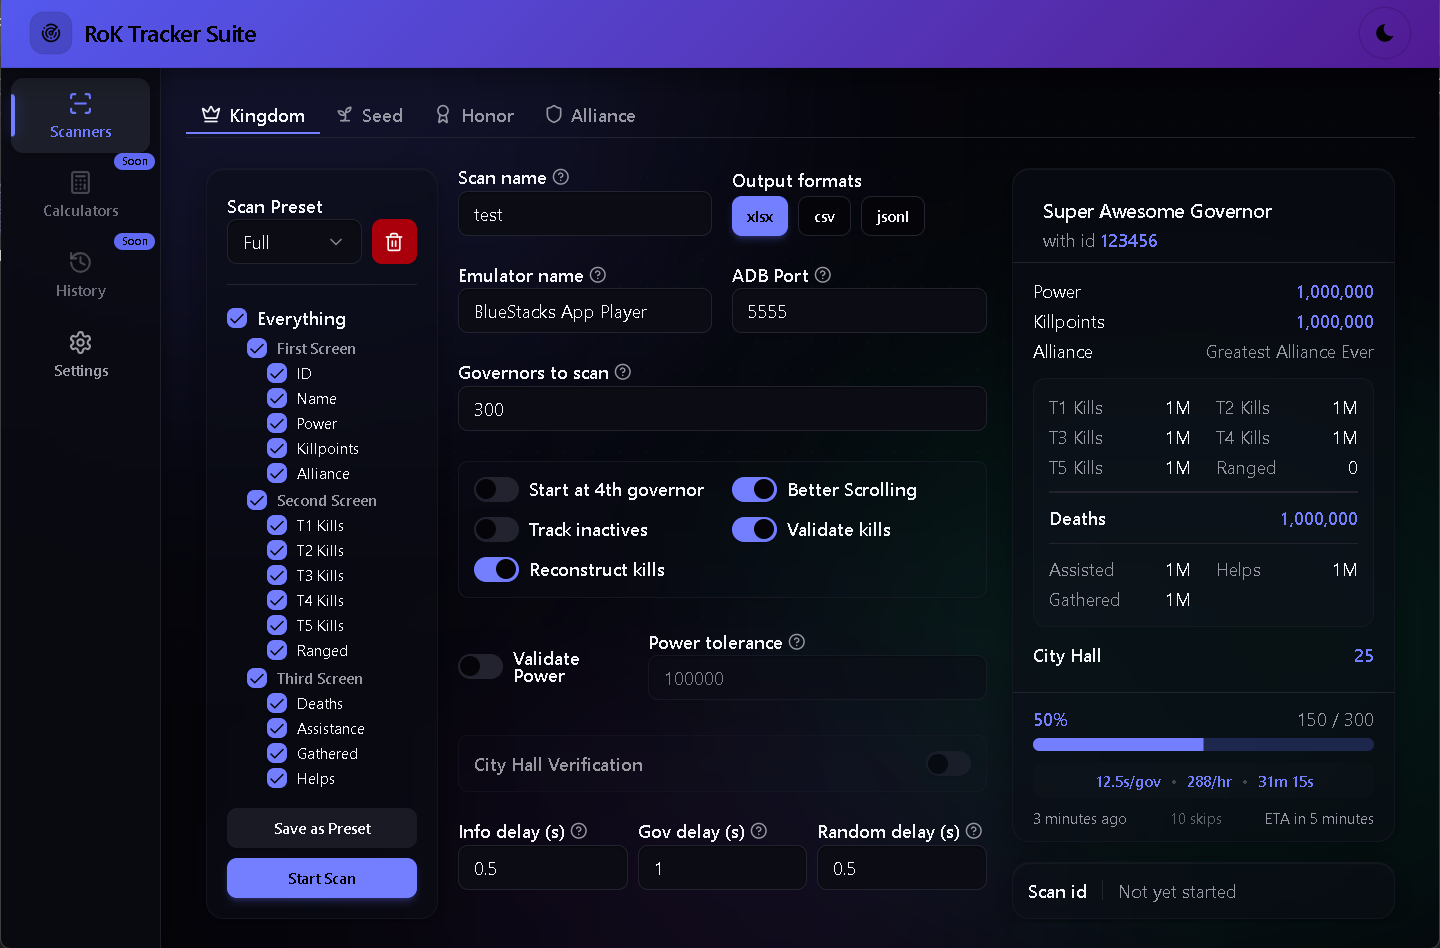
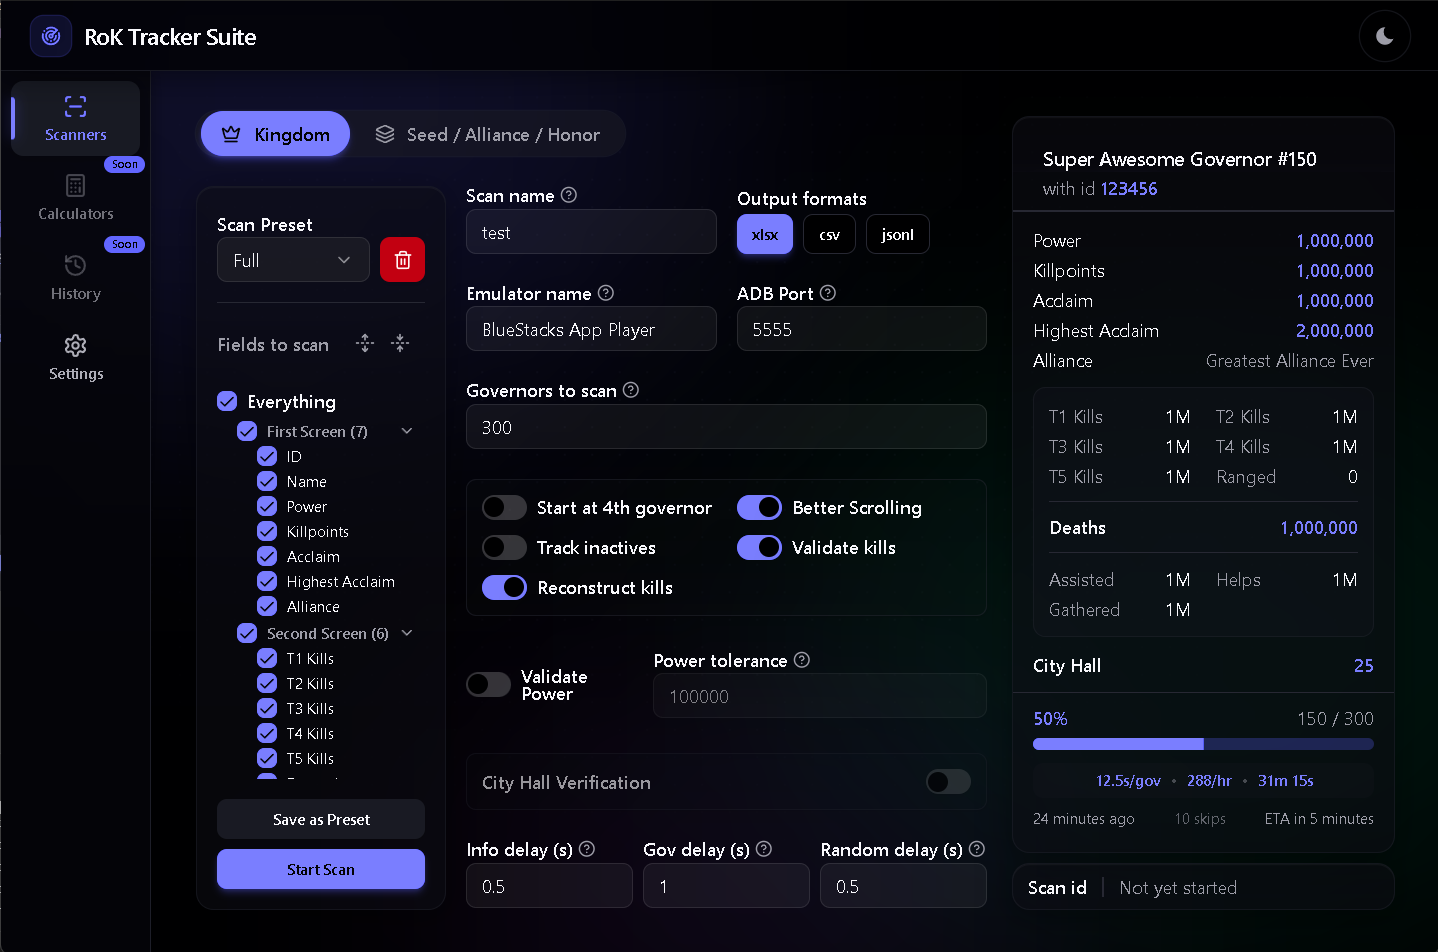
clipboard parsing and OCR support

diff --git a/roktracker/kingdom/scanner.py b/roktracker/kingdom/scanner.py
@@ -44,7 +44,7 @@ _user32.EmptyClipboard.argtypes = []
 _user32.EmptyClipboard.restype = wintypes.BOOL
 
 _kernel32.GlobalLock.argtypes = [wintypes.HANDLE]
-_kernel32.GlobalLock.restype = wintypes.c_void_p
+_kernel32.GlobalLock.restype = ctypes.c_void_p
 
 _kernel32.GlobalUnlock.argtypes = [wintypes.HANDLE]
 _kernel32.GlobalUnlock.restype = wintypes.BOOL

diff --git a/README.md b/README.md
@@ -24,6 +24,7 @@ Originally based on the tool by [nikolakis1919](https://github.com/nikolakis1919
 - [Configuration](#configuration)
 - [Emulator Setup](#emulator-setup)
   - [Bluestacks 5](#bluestacks-5)
+  - [Automatic Port Detection](#automatic-port-detection)
   - [LD Player, MEmu, and Nox](#ld-player-memu-and-nox)
 - [Output Formats](#output-formats)
 - [Important Notes](#important-notes)
@@ -43,13 +44,9 @@ The main scanner — configure presets, fine-tune timings, and track every gover
   <img src="images/kingdom.png" alt="Kingdom Scanner" width="800">
 </p>
 
-<h3 align="center">Alliance Scanner &nbsp;&nbsp;|&nbsp;&nbsp; Honor Scanner &nbsp;&nbsp;|&nbsp;&nbsp; Seed Scanner</h3>
+<h3 align="center">Seed / Alliance / Honor Scanners</h3>
 <p align="center">
-  <img src="images/alliance.png" alt="Alliance Scanner" width="270">
-  &nbsp;&nbsp;
-  <img src="images/honor.png" alt="Honor Scanner" width="270">
-  &nbsp;&nbsp;
-  <img src="images/seed.png" alt="Seed Scanner" width="270">
+  <img src="images/batch.png" alt="Seed / Alliance / Honor Scanners" width="800">
 </p>
 
 ---
@@ -274,7 +271,7 @@ Select **LD Player**, **MEmu**, or **Nox** as the emulator in the app's **Settin
 
 Configure your emulator instance with these settings:
 
-**Display Tab** ([Screenshot](images/LD%20Player-dispaly.png)) — set the resolution and DPI listed above.
+**Display Tab** ([Screenshot](images/LD%20Player-display.png)) — set the resolution and DPI listed above.
 
 **Other Settings** ([Screenshot](images/LD%20Player-others.png)) — Ensure ADB/Root permissions are enabled.
 
